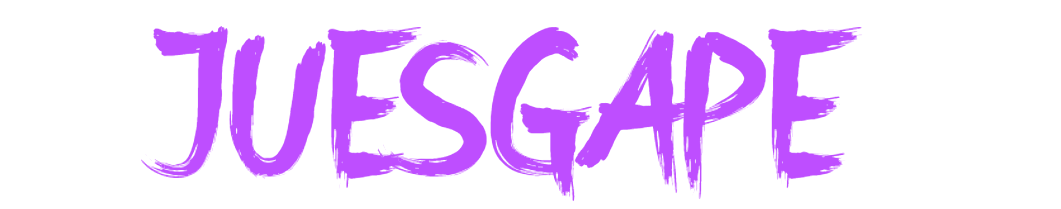
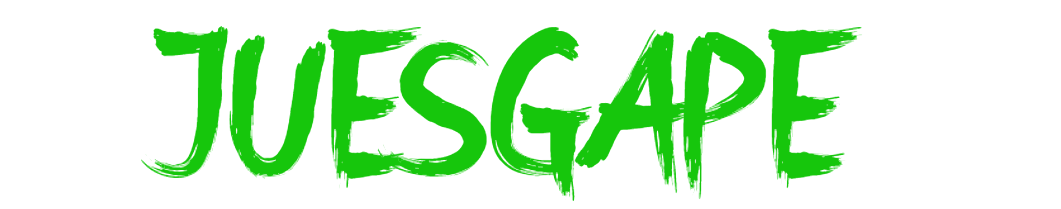
adding colors

Changed region(s): [[0.1244, 0.1148, 0.8087, 0.9474]]

diff --git a/portafolio-landing-page/components/Navbar.jsx b/portafolio-landing-page/components/Navbar.jsx
@@ -35,21 +35,21 @@ const Navbar = () => {
         </Link>
         <div>
           <ul className='hidden md:flex'>
-              <Link href='/#main'>
+              <a href='/#main'>
                 <li className='ml-10 text-sm uppercase hover:border-b'>Home</li>
-              </Link>
-              <Link href='#about'>
+              </a>
+              <a href='#about'>
                 <li className='ml-10 text-sm uppercase hover:border-b'>About</li>
-              </Link>
-              <Link href='/#skills'>
+              </a>
+              <a href='/#skills'>
                 <li className='ml-10 text-sm uppercase hover:border-b'>Skills</li>
-              </Link>
-              <Link href='/#projects'>
+              </a>
+              <a href='/#projects'>
                 <li className='ml-10 text-sm uppercase hover:border-b'>Projects</li>
-              </Link>
-              <Link href='/'>
+              </a>
+              {/* <a href='/'>
                 <li className='ml-10 text-sm uppercase hover:border-b'>Contact</li>
-              </Link>
+              </a> */}
           </ul>
           <div onClick={handleNav} className='md:hidden'>
             <AiOutlineMenu size={25} />
@@ -66,7 +66,7 @@ const Navbar = () => {
           >
           <div>
           <div className='flex w-full items-center justify-between'>
-          <Image className='' src='/../public/assets/Juesgape - copia.png' alt='/' width='125' height='50'/>
+          <Image className='' src='/../public/assets/Juesgape - copia.png' alt='/' width='200' height='50'/>
             <div onClick={handleNav} className='rounded-full shadow-lg shadow-gray-400 p-3 cursor-pointer'>
               <AiOutlineClose></AiOutlineClose>
             </div>
@@ -78,25 +78,25 @@ const Navbar = () => {
         <div>
           <ul className='upper'>
             <li>
-              <Link href='/'>
-                <li className='py-4 text-sm'>Home</li>
-              </Link>
-              <Link href='/'>
+              <a onClick={handleNav} href='/#main'>
+                <li  className='py-4 text-sm'>Home</li>
+              </a>
+              <a onClick={handleNav} href='/#about'>
                 <li className='py-4 text-sm'>About</li>
-              </Link>
-              <Link href='/'>
+              </a>
+              <a onClick={handleNav} href='/#skills'>
                 <li className='py-4 text-sm'>Skills</li>
-              </Link>
-              <Link href='/'>
+              </a>
+              <a onClick={handleNav} href='/#projects'>
                 <li className='py-4 text-sm'>Projects</li>
-              </Link>
-              <Link href='/'>
+              </a>
+              {/* <Link href='/'>
                 <li className='py-4 text-sm'>Contact</li>
-              </Link>
+              </Link> */}
             </li>
           </ul>
           <div className='pt-40'>
-            <p className='uppercase tracking-widest text-[#5651e5]'>Let's connect</p>
+            <p className='uppercase tracking-widest text-[#16c60c]'>Let's connect</p>
           <div className='flex items-center justify-between my-4 w-full sm:w-[80%]'>
 
           <a  href='https://www.linkedin.com/in/juan-esteban-gallego-2aba45247' target='_blank'>

diff --git a/portafolio-landing-page/components/Projects.jsx b/portafolio-landing-page/components/Projects.jsx
@@ -10,16 +10,16 @@ export const Projects = () => {
   return (
     <div id='projects' className='w-full '>
         <div className='max-w-[1240px] mx-auto px-2 py-16'>
-        <p className='text-xl tracking-widest uppercase text-[#5651e5]'>Projects</p>
+        <p className='text-xl tracking-widest uppercase text-[#16c60c]'>Projects</p>
         <h2 className='py-4'>What I've Built</h2>
         <div className='grid md:grid-cols-2 gap-10'>
 
         <a href='https://juesgape.github.io/Calculator/' target='_blank'>
-            <div className='cursor-pointer flex items-center justify-center h-auto w-full shadow-xl shadow-gray-400 rounded-xl p-4 group hover:bg-gradient-to-r from[#5651e5] to-[#709dff]'>
+            <div className='cursor-pointer flex items-center justify-center h-auto w-full shadow-xl shadow-gray-400 rounded-xl p-4 group hover:bg-gradient-to-r from[#16c60c] to-[#709dff]'>
 
             <Image className='rounded-xl group-hover:opacity-10' src={calculatorImg} alt='/'></Image>
             <div className='hidden group-hover:block absolute '>
-                <h3 className=' text-2xl tracking-wider text-[#5651e5]'>Calculator</h3>
+                <h3 className=' text-2xl tracking-wider text-[#16c60c]'>Calculator</h3>
             </div>
             </div>
         </a>
@@ -29,7 +29,7 @@ export const Projects = () => {
 
             <Image className='rounded-xl group-hover:opacity-10' src={etchAsketchImg} alt='/' height='1065px'></Image>
             <div className='hidden group-hover:block absolute '>
-                <h3 className=' text-2xl tracking-wider text-[#5651e5]'>Etch A Sketch</h3>
+                <h3 className=' text-2xl tracking-wider text-[#16c60c]'>Etch A Sketch</h3>
             </div>
             </div>
         </a>
@@ -39,7 +39,7 @@ export const Projects = () => {
 
             <Image className='rounded-xl group-hover:opacity-10' src={gamesWithJsImg} alt='/' height='1065px'></Image>
             <div className='hidden group-hover:block absolute '>
-                <h3 className=' text-2xl tracking-wider text-[#5651e5]'>Games With Js</h3>
+                <h3 className=' text-2xl tracking-wider text-[#16c60c]'>Games With Js</h3>
             </div>
             </div>
         </a>
@@ -49,7 +49,7 @@ export const Projects = () => {
 
             <Image className='rounded-xl group-hover:opacity-10' src={quizSoccerAppImg} alt='/' height='1065px'></Image>
             <div className='hidden group-hover:block absolute '>
-                <h3 className=' text-2xl tracking-wider text-[#5651e5]'>Quiz Soccer App</h3>
+                <h3 className=' text-2xl tracking-wider text-[#16c60c]'>Quiz Soccer App</h3>
             </div>
             </div>
         </a>

diff --git a/portafolio-landing-page/components/About.jsx b/portafolio-landing-page/components/About.jsx
@@ -7,13 +7,13 @@ const About = () => {
     <div id='about' className='w-full md:h-screen p-2 flex items-center py-16'>
         <div className='max-w-[1240px] m-auto md:grid grid-cols-3 gap-8'>
             <div className='col-span-2'>
-                <p className='uppercase text-xl tracking-widest text-[#5651e5]'>About</p>
+                <p className='uppercase text-xl tracking-widest text-[#16c60c]'>About</p>
                 <h2 className='py-4'>Who I Am</h2>
                 <p className='py-2 px-2 text-gray-600'>I build web applications using technologies as HTML, CSS, Javascript, and I'm currently learning frameworks. I’m passionate about programming and learning new technologies, that's why I'm studying software engineering at the university of Medellin. Not only that but I also study web development on Platzi 💚. Though I am most proficient in building front-end applications using HTML, CSS and Javascript, I am a quick learner and can pick up new tech stacks as quicly as possible.</p>
                 <p className='py-2 px-2 text-gray-600'>
                 I started web developement in 2021 and I've been a freelancer since then. Although I haven't worked for a serious company I have taken my studies seriosly and I've built a bunch of projects using different technologies as Next.js, Kotlin, Mit App Inventor and Python. Thanks to <a className='underline' href='https://platzi.com/' target='_blank'>Platzi</a> I have many web developement certifications. In my free time I study on Platzi, learn languages, and watch series.
                 </p>
-                <p className='py-2 px-2 text-gray-600 underline cursor-pointer'>See some of my projects</p>
+               <a href='/#projects'><p className='py-2 px-2 text-gray-600 underline cursor-pointer'>See some of my projects</p></a>
             </div>
             <div className='w-full h-auto  shadow-gray-400 rounded-xl flex items-center justify-center p-4 hover:scale-105 ease-in duration-300'>
               <Image className='rounded-xl group-hover:opacity-10' src={codingImage} alt='/'></Image>

diff --git a/portafolio-landing-page/components/Main.jsx b/portafolio-landing-page/components/Main.jsx
@@ -9,7 +9,7 @@ const Main = () => {
         <div className='max-w-[1240px] w-full h-full mx-auto p-2 flex justify-center items-center'>
             <div>
                 <p className='uppercase text-sm tracking-widest text-gray-600'>Never stop learning 💚</p>
-                <h1 className='py-4 text-gray-700'>Hi, I'm <span className='text-[#5651e5]'>Juan Esteban</span></h1>
+                <h1 className='py-4 text-gray-700'>Hi, I'm <span className='text-[#16c60c]'>Juan Esteban</span></h1>
                 <h1 className='py-2 text-gray-700'>
                    A Front-End Web Developer
                 </h1>

diff --git a/portafolio-landing-page/components/Skills.js b/portafolio-landing-page/components/Skills.js
@@ -5,7 +5,7 @@ function Skills() {
   return (
     <div id='skills' className='w-full lg:h-screen p-2'>
         <div className='max-w-[1240px] mx-auto flex flex-col justify-center h-full'>
-            <p className='text-xl tracking-widest uppercase text-[#5651e5]'>Skills</p>
+            <p className='text-xl tracking-widest uppercase text-[#16c60c]'>Skills</p>
             <h2 className='py-4'>What I Can Do</h2>
             <div className='grid md:grid-cols-2 lg:grid-cols-4 gap-8'>
 

diff --git a/portafolio-landing-page/pages/index.js b/portafolio-landing-page/pages/index.js
@@ -11,7 +11,7 @@ export default function Home() {
       <Head>
         <title>Juesgape</title>
         <meta name="description" content="Generated by create next app" />
-        <link rel="icon" href="/main-icon.png" />
+        <link rel="icon" href="/green-main-icon.png" />
       </Head>
 
     <Navbar></Navbar>
